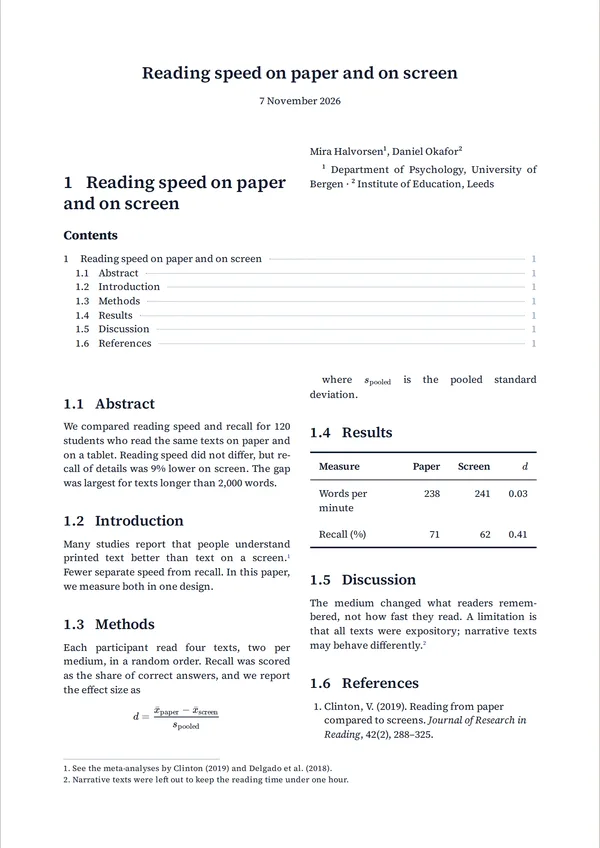
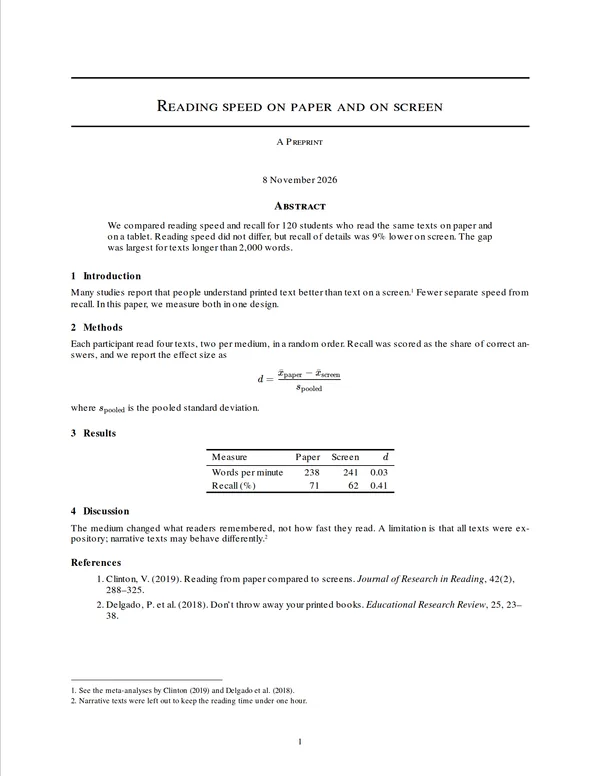
Merge origin/main; keep novel + academic retired; gallery pictures follow the try-it title rule
Main still carried the novel and academic presets (with their i18n,
thumbnails and test entries) — removed again. The academic-paper gallery
picture is re-rendered in arxiv; gallerySources() drops the example's
leading # Title for title-block themes exactly like the try-it workbench
(shared/utils/markdownTitle.ts).

Changed region(s): [[0.09, 0.0619, 0.9, 0.9278], [0.99, 0.0, 1.0, 1.0]]

diff --git a/shared/utils/themePresets.ts b/shared/utils/themePresets.ts
@@ -897,42 +897,6 @@ export const THEME_PRESETS: ThemePreset[] = [
     }
   },
 
-  // — Academic Paper: serif body, generous margins, dark-blue accent,
-  // running head with title + page (no footer). Tables are minimal-
-  // border (top/bottom rules only) — the academic convention. No cover
-  // page: a title block (title, authors + affiliations, date, abstract)
-  // opens page 1, sections are numbered.
-  {
-    id: 'academic',
-    category: 'academic',
-    theme: {
-      page: { size: 'A4', orientation: 'portrait', margin: 22 },
-      meta: { font: 'Source Serif 4' },
-      body: { font: 'Source Serif 4', size: 10, lineHeight: 1.4, textAlign: 'justify', color: '#0f172a', background: '#FFFFFF', dropCap: false, firstLineIndent: true, paragraphSpacing: 0.4, hyphenate: true },
-      headings: { font: 'Source Serif 4', scale: 1.2, weight: 600, underline: false, color: '#0f172a', letterSpacing: 0, lineHeight: 1.2, spacingScale: 1, numbering: 'decimal', levels: {} },
-      color: { brand: '#1e3a8a', secondary: '#94a3b8' },
-      brand: { logoUrl: '', logoHeight: 48 },
-      layout: { columns: 2, columnGap: 7 },
-      header: { left: '{title}', center: '', right: '{page}', imageUrl: '', imagePosition: 'left', imageHeight: 12, rule: false },
-      footer: { left: '', center: '', right: '', imageUrl: '', imagePosition: 'center', imageHeight: 10, rule: false },
-      code: { theme: 'github-light', fontSize: 8.5, font: 'IBM Plex Mono', background: 'auto', frame: 'none', wrap: true, lineNumbers: false },
-      tables: { headerBackground: 'none', headerTextColor: 'inherit', borders: 'minimal', zebra: false, cellPadding: 8, captionPosition: 'above', captionLabel: false },
-      blocks: { imageRadius: 0, imageMaxWidth: 90, blockquoteStyle: 'border', hrStyle: 'rule', hrThickness: 1, figureLabel: false, referenceStyle: 'plain' },
-      mermaid: { theme: 'document' },
-      // Academic restraint — slightly desaturated GitHub colours to
-      // match the journal voice. Stay below the fold visually.
-      alerts: {
-        note: '#1f3a6e',
-        tip: '#175c2e',
-        important: '#5d3d99',
-        warning: '#7a5200',
-        caution: '#9b1a25'
-      },
-      toc: { maxDepth: 4, showTitle: true, showPageNumbers: true, leaderStyle: 'dotted' },
-      cover: { enabled: true, layout: 'title-block', showTitle: true, showSubtitle: false, subtitle: '', showDate: true, showAuthors: true, authors: [], affiliations: [], rules: false, smallCaps: false, showLogo: false, align: 'center', titleSize: 1.7, subtitleSize: 1.1 }
-    }
-  },
-
   // — arXiv preprint: the kourgeorge/arxiv-style LaTeX template (MIT),
   // rebuilt from arxiv.sty — US Letter with 1in margins, Times
   // (TeX Gyre Termes) 10/11 justified, \parskip 5.5pt, numbered bold
@@ -1516,40 +1480,6 @@ export const THEME_PRESETS: ThemePreset[] = [
     }
   },
 
-  // — Novel: classic Crimson Text serif, deep violet accent, generous
-  // line-height, only a centered page number in the footer. Tables and
-  // code blocks rare in fiction — kept minimal.
-  {
-    id: 'novel',
-    category: 'writing',
-    theme: {
-      page: { size: 'A4', orientation: 'portrait', margin: 25 },
-      meta: { font: 'Crimson Text' },
-      body: { font: 'Crimson Text', size: 12, lineHeight: 1.5, textAlign: 'justify', color: '#1c1917', background: '#FFFFFF', dropCap: true, firstLineIndent: true, paragraphSpacing: 0.2, hyphenate: true },
-      headings: { font: 'Crimson Text', scale: 1.22, weight: 600, underline: false, color: '#1c1917', letterSpacing: 0.01, lineHeight: 1.2, spacingScale: 1.4, numbering: 'none', levels: {} },
-      color: { brand: '#4c1d95', secondary: '#a8a29e' },
-      brand: { logoUrl: '', logoHeight: 48 },
-      layout: { columns: 1, columnGap: 8 },
-      header: { left: '', center: '', right: '', imageUrl: '', imagePosition: 'left', imageHeight: 12, rule: false },
-      footer: { left: '', center: '{page}', right: '', imageUrl: '', imagePosition: 'center', imageHeight: 10, rule: false },
-      code: { theme: 'none', fontSize: 10, font: 'IBM Plex Mono', background: 'none', frame: 'none', wrap: true, lineNumbers: false },
-      tables: { headerBackground: 'none', headerTextColor: 'inherit', borders: 'minimal', zebra: false, cellPadding: 8, captionPosition: 'above', captionLabel: false },
-      blocks: { imageRadius: 0, imageMaxWidth: 80, blockquoteStyle: 'none', hrStyle: 'asterism', hrThickness: 1, figureLabel: false, referenceStyle: 'plain' },
-      mermaid: { theme: 'document' },
-      // Novel — admonitions are rare in fiction; if they appear they
-      // should feel period-appropriate. Muted ink palette that reads
-      // like marginalia in an old book.
-      alerts: {
-        note: '#3b3b6b',
-        tip: '#2f5d3a',
-        important: '#552d70',
-        warning: '#7a5200',
-        caution: '#7c1d1d'
-      },
-      toc: { maxDepth: 2, showTitle: true, showPageNumbers: true, leaderStyle: 'dotted' },
-      cover: { enabled: true, layout: 'classic', showTitle: true, showSubtitle: false, subtitle: '', showDate: false, showAuthors: true, authors: [], affiliations: [], rules: false, smallCaps: false, showLogo: false, align: 'center', titleSize: 2.4, subtitleSize: 1.15 }
-    }
-  },
   // — Manuscript: a typeset fiction interior (novel, novella, short-story
   // collection) in the trade-paperback tradition — A5, EB Garamond 11/14.5
   // justified and hyphenated, first-line indents and no paragraph space,

diff --git a/scripts/lib/themeThumbnailHash.ts b/scripts/lib/themeThumbnailHash.ts
@@ -4,6 +4,7 @@ import { dirname, resolve } from 'node:path'
 import { fileURLToPath } from 'node:url'
 import { parse as parseYaml } from 'yaml'
 import { THEME_PRESETS } from '../../shared/utils/themePresets'
+import { showsTitleItself, withoutTitleHeading } from '../../shared/utils/markdownTitle'
 
 /**
  * What a preset's design-picker thumbnail is rendered from: the preset
@@ -72,7 +73,11 @@ export function gallerySources(): Record<string, GallerySource> {
     if (typeof value.tryIt === 'string') {
       const { theme, source } = firstTryIt(resolve(FIXTURE_DIR, value.tryIt))
       const title = /^#\s+(.+)$/m.exec(source)?.[1]?.trim() ?? id
-      out[id] = { md: source, title, theme, pageNumber }
+      // Same as the page's workbench: a title-block theme sets the title
+      // itself, so the example's leading `# Title` stays out of the body.
+      const cover = THEME_PRESETS.find(p => p.id === theme)?.theme.cover
+      const md = cover && showsTitleItself(cover) ? withoutTitleHeading(source) : source
+      out[id] = { md, title, theme, pageNumber }
     } else if (typeof value.md === 'string' && typeof value.title === 'string' && typeof value.theme === 'string') {
       out[id] = { md: readFileSync(resolve(FIXTURE_DIR, value.md), 'utf8'), title: value.title, theme: value.theme, pageNumber }
     } else {

diff --git a/app/utils/tryIt.ts b/app/utils/tryIt.ts
@@ -1,5 +1,7 @@
 import { ANON_GATE_CODES } from '~~/shared/config/anonGate'
 
+export { withoutTitleHeading } from '~~/shared/utils/markdownTitle'
+
 // Pure helpers of the marketing `::try-it` block (components/content/TryIt.vue
 // + components/marketing/TryItWorkbench.vue).
 
@@ -23,23 +25,6 @@ export function titleFromMarkdown(markdown: string): string {
     if (m?.[1]) return m[1].trim().slice(0, TITLE_MAX)
   }
   return ''
-}
-
-/**
- * The text without its title line: a level-1 ATX heading on the first
- * non-blank line, plus the blank lines after it. Used for themes that set
- * the title in a title block on page 1 (papers): the heading is the
- * document title there, and left in the body it would print twice.
- * Anything else (no heading first, a level-2 heading) is returned as is.
- */
-export function withoutTitleHeading(markdown: string): string {
-  const lines = markdown.split('\n')
-  let i = 0
-  while (i < lines.length && (lines[i] ?? '').trim() === '') i++
-  if (!/^\s{0,3}#[ \t]+\S/.test(lines[i] ?? '')) return markdown
-  i++
-  while (i < lines.length && (lines[i] ?? '').trim() === '') i++
-  return lines.slice(i).join('\n')
 }
 
 /** Status + code of a `$fetch` error, whatever its exact shape. */

diff --git a/app/components/marketing/TryItWorkbench.vue b/app/components/marketing/TryItWorkbench.vue
@@ -8,6 +8,7 @@ import { defaultKeymap, history, historyKeymap, indentWithTab } from '@codemirro
 import { markotoMarkdownHighlight } from '~/utils/markdownHighlight'
 import { formattingKeymap } from '~/utils/editorCommands'
 import { titleFromMarkdown, tryItErrorKey, withoutTitleHeading } from '~/utils/tryIt'
+import { showsTitleItself } from '~~/shared/utils/markdownTitle'
 import { AnonGateCancelled } from '~/composables/useAnonGate'
 import { THEME_PRESETS } from '~~/shared/utils/themePresets'
 import { defaultTheme } from '~~/shared/utils/defaultTheme'
@@ -49,8 +50,7 @@ const theme = computed(() => THEME_PRESETS.find(p => p.id === props.themePreset)
 // leading `# Title` is the document title, not body text, so it is left
 // out of the preview and of the created document (whose title it becomes).
 const bodyText = computed(() => {
-  const cover = theme.value.cover
-  return cover.enabled && cover.layout === 'title-block' && cover.showTitle ? withoutTitleHeading(text.value) : text.value
+  return showsTitleItself(theme.value.cover) ? withoutTitleHeading(text.value) : text.value
 })
 const tooLong = computed(() => text.value.length > INITIAL_CONTENT_MAX_LENGTH)
 

diff --git a/shared/utils/markdownTitle.ts b/shared/utils/markdownTitle.ts
@@ -1,0 +1,24 @@
+/**
+ * The text without its title line: a level-1 ATX heading on the first
+ * non-blank line, plus the blank lines after it. Used for themes that set
+ * the title in a title block on page 1 (papers): the heading is the
+ * document title there, and left in the body it would print twice.
+ * Anything else (no heading first, a level-2 heading) is returned as is.
+ */
+export function withoutTitleHeading(markdown: string): string {
+  const lines = markdown.split('\n')
+  let i = 0
+  while (i < lines.length && (lines[i] ?? '').trim() === '') i++
+  if (!/^\s{0,3}#[ \t]+\S/.test(lines[i] ?? '')) return markdown
+  i++
+  while (i < lines.length && (lines[i] ?? '').trim() === '') i++
+  return lines.slice(i).join('\n')
+}
+
+/**
+ * Title-block layouts set the document title themselves, so a leading
+ * `# Title` in the text would print it twice.
+ */
+export function showsTitleItself(cover: { enabled: boolean, layout: string, showTitle: boolean }): boolean {
+  return cover.enabled && cover.layout === 'title-block' && cover.showTitle
+}

diff --git a/tests/unit/themeToCss.test.ts b/tests/unit/themeToCss.test.ts
@@ -472,7 +472,7 @@ describe('themeToCss — schema completeness invariants', () => {
   })
   test('all 20 presets exist', () => {
     expect(THEME_PRESETS.map(p => p.id)).toEqual([
-      'markoto', 'modern', 'academic', 'arxiv', 'ieee-conference', 'lecture-notes', 'thesis', 'tech-docs', 'api-reference', 'design-doc', 'business-report', 'one-pager', 'proposal', 'memo', 'novel', 'manuscript', 'essay', 'newsletter', 'resume', 'runbook'
+      'markoto', 'modern', 'arxiv', 'ieee-conference', 'lecture-notes', 'thesis', 'tech-docs', 'api-reference', 'design-doc', 'business-report', 'one-pager', 'proposal', 'memo', 'manuscript', 'essay', 'newsletter', 'resume', 'runbook'
     ])
   })
   test('markoto is first preset (becomes default in new-doc dialog)', () => {

diff --git a/content/docs/themes/pick-a-theme.md b/content/docs/themes/pick-a-theme.md
@@ -71,8 +71,6 @@ The built-in presets cover most use cases:
   paragraph, section labels in a left column, a compact key-facts
   table and a filled *Important* callout. Start with a bold paragraph
   to get the large lead.
-- **Novel** — Crimson Text serif, deep violet accent, generous
-  line-height, drop cap on page 1.
 - **Academic essay (APA)** — the APA 7 student paper: Times 12 pt
   double-spaced, a title page with your name, course, instructor and
   date, the page number top right, centred bold headings and the
